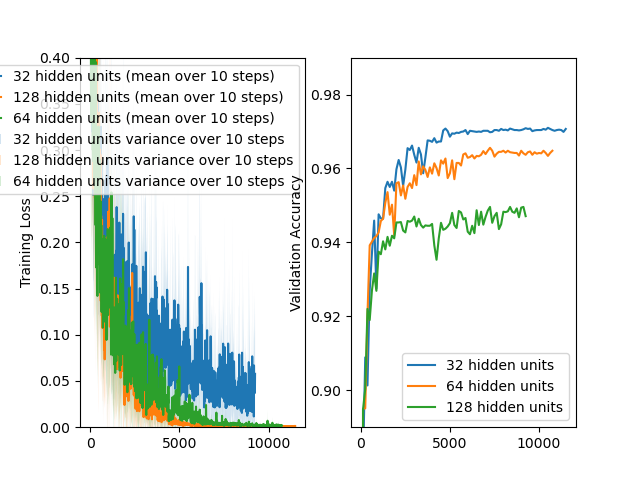
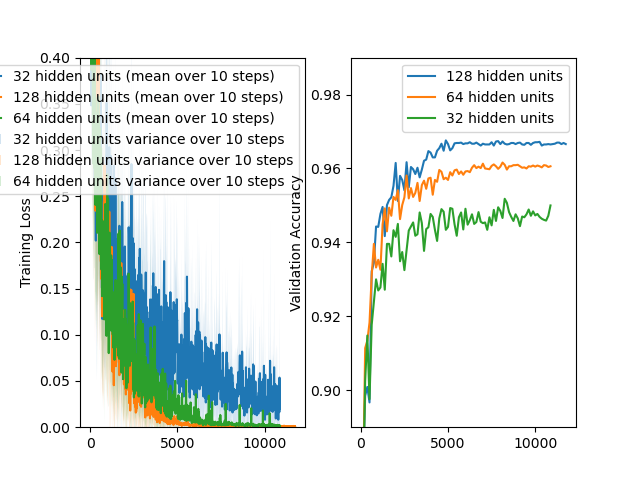
made some minor improvements

diff --git a/assignment2/task3.py b/assignment2/task3.py
@@ -103,7 +103,7 @@ if __name__ == "__main__":
     
     
     '''
-    '''
+    
     #############################
     #Task 4 a and b below        #
     #############################
@@ -171,22 +171,22 @@ if __name__ == "__main__":
     plt.subplot(1, 2, 2)
     plt.ylim([0.89, .99])
     utils.plot_loss(
-        val_history_128["accuracy"], "32 hidden units")
+        val_history_128["accuracy"], "128 hidden units")
     utils.plot_loss(
         val_history_64["accuracy"], "64 hidden units")
     utils.plot_loss(
-        val_history_32["accuracy"], "128 hidden units")
+        val_history_32["accuracy"], "32 hidden units")
     plt.ylabel("Validation Accuracy")
     plt.legend()
     plt.savefig("task4_a_b.png")
     plt.show()
-    '''
+
     
     
     ###################
     # Task 4e)        #
     ###################
-
+    '''
     learning_rate_momentum = 0.02
     neurons_per_layer = [64,64,64,64,64,64,64,64,64,64,10]
     model_64_layers = SoftmaxModel(
@@ -217,5 +217,6 @@ if __name__ == "__main__":
     plt.legend()
     plt.savefig("task4_e.png")
     plt.show()
+    '''
 
     

diff --git a/assignment2/task2.py b/assignment2/task2.py
@@ -60,8 +60,9 @@ class SoftmaxTrainer(BaseTrainer):
 
         if (self.use_momentum):
            for i,grad in enumerate(model.grads):
-                self.previous_grads[i] = self.learning_rate*grad + self.momentum_gamma*self.previous_grads[i]
+                #self.previous_grads[i] = self.learning_rate*grad + self.momentum_gamma*self.previous_grads[i]
                 model.ws[i] -= self.previous_grads[i]
+                self.previous_grads[i] = self.learning_rate*grad + self.momentum_gamma*self.previous_grads[i]
                 
         else:
             for i,grad in enumerate(model.grads):
